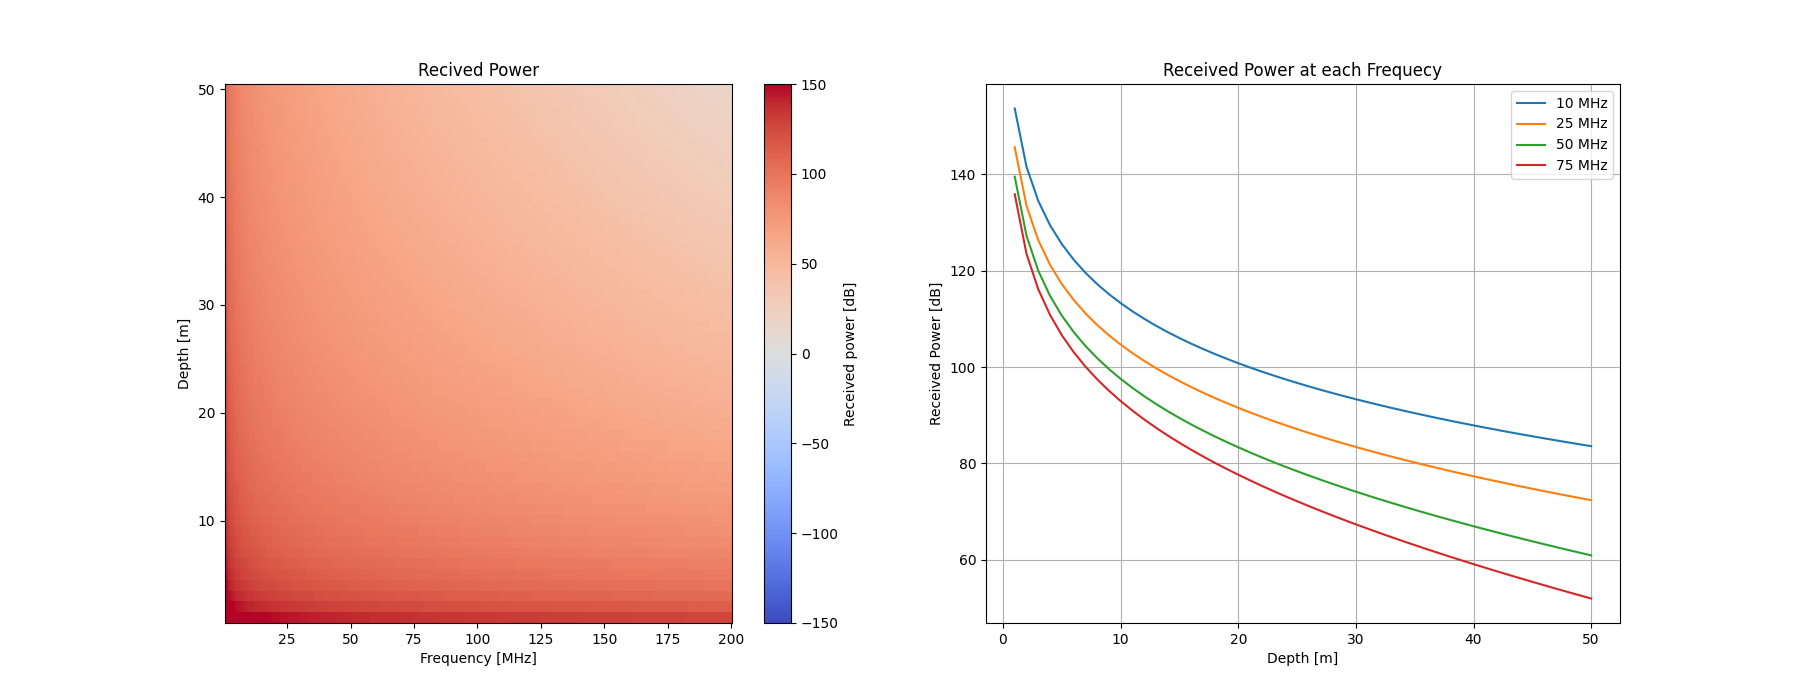
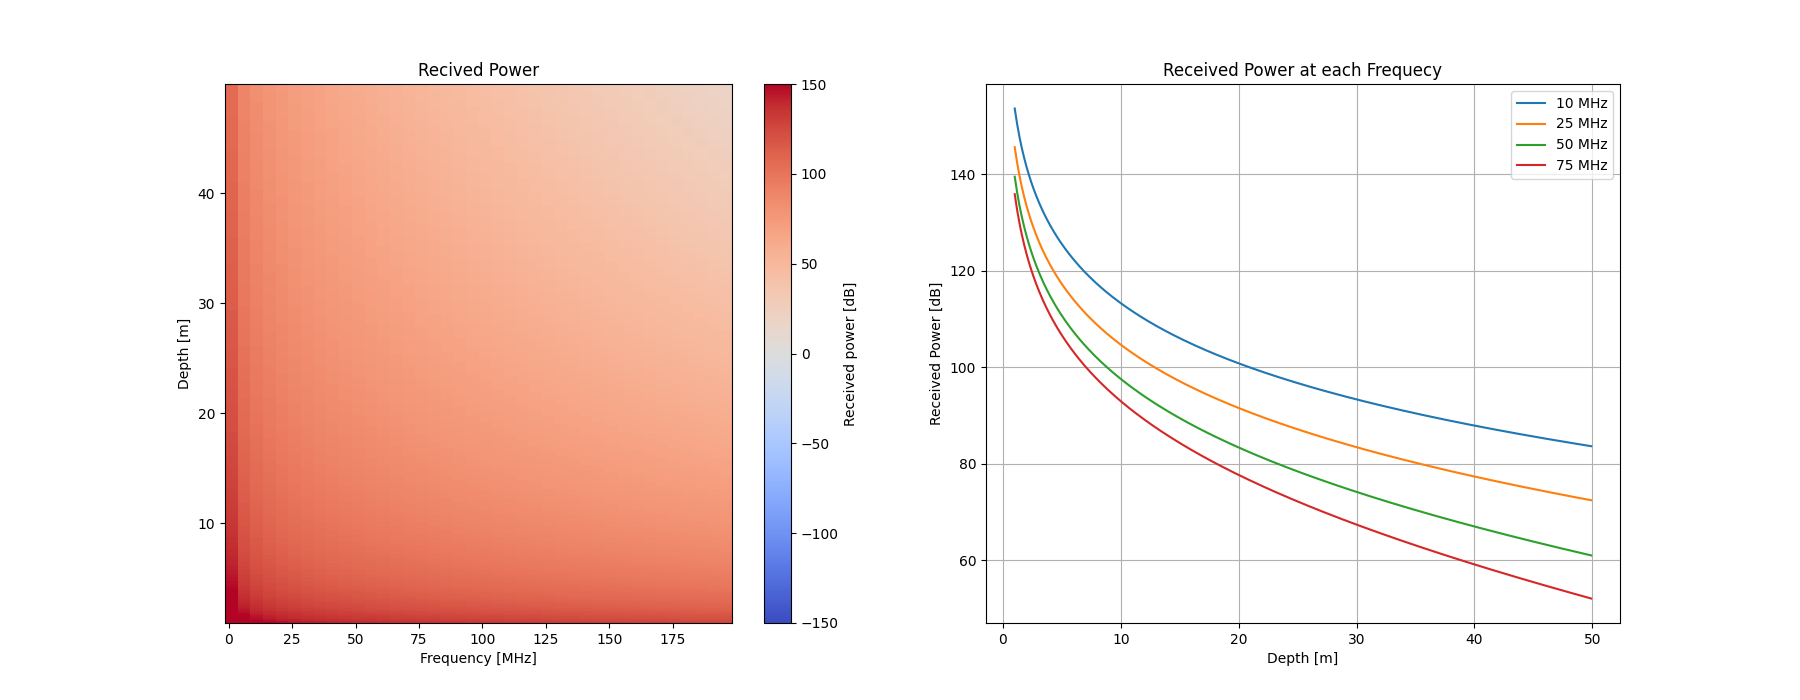
freq, depthのメッシュ作成をjsonに対応

diff --git a/recieved_power_dB.py b/recieved_power_dB.py
@@ -20,7 +20,7 @@ epsilon_0 = params['epsilon_0']  # 真空雨の誘電率　
 loss_tangent = params['loss_tangent']  # 損失角（tan）
 
 Pt = params['transmit_power'] # 放射パワー[W]
-noise_lebel = params['noise_level'] # ノイズレベル[W]
+noise_level = params['noise_level'] # ノイズレベル[W]
 
 freq_min = params['min_frequency'] # 周波数の最小値[MHz]
 freq_max = params['max_frequency'] # 周波数の最大値[MHz]
@@ -34,6 +34,7 @@ altitude = params['altitude'] #探査機の高度[m]
 
 
 
+# 受信パワーの計算
 def calc_Pr(gain, noise_level_W):  
     #　反射係数・透過係数
     Gamma_r = (np.sqrt(epsilon_r) - np.sqrt(epsilon_0))**2 / (np.sqrt(epsilon_r) + np.sqrt(epsilon_0))**2
@@ -42,13 +43,13 @@ def calc_Pr(gain, noise_level_W):
     print('through:',Gamma_t)
 
     #周波数、深さ
-    freq = np.arange(1, 201, 1.0)
-    depth = np.arange(1, 51, 1.0)
+    freq = np.arange(freq_min, freq_max, freq_step)
+    depth = np.arange(depth_min, depth_max, depth_step)
     # Rとfのメッシュグリッドを生成
     f_mesh, R_mesh = np.meshgrid(freq, depth)
 
-    # ノイズレベルの設定
-    noise_dB = 10*np.log10(noise_level_W / 800)
+    # ノイズレベルの算出[dB]
+    noise_dB = 10*np.log10(noise_level / Pt)
 
 
     # 受信強度の計算[dB]
